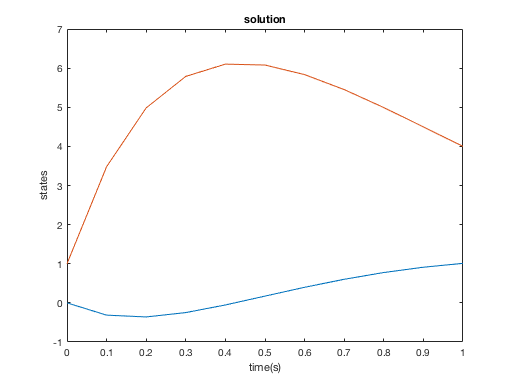
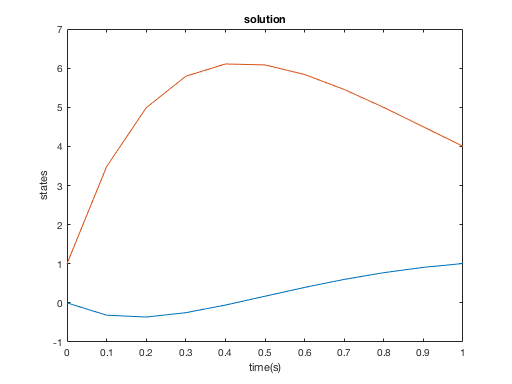
Repair dP_dt = F(T-t,P,Y(T-t),U(T-t))

diff --git a/src/MDL01_Control/classes/@LinearControl/GetAdjointProblem.m b/src/MDL01_Control/classes/@LinearControl/GetAdjointProblem.m
@@ -1,28 +1,20 @@
   function GetAdjointProblem(iControlProblem)
-% little_description: Metodo capaz de calcular el problema adjunto de la ecuacion diferencial atravez del hamiltoniano
-%                      asociado (Principi de Pontriagin). Mediante la formula $ \\frac{d\\textbf{P}}{dt} = \\vec{\\nabla}_{Y} H $
-% description: Este metodo agrega el problema adjunto al objecto ControlProblem, dado que tenemos 
+% description: This method adds the problem adjoint to the Control Problem object, since we have
 %               $$ \\dot{\\textbf{Y}} = f(\\textbf{Y},t) $$ 
-%               y el funcional 
+%               and the functional
 %               $$ J = \\Psi(\\textbf{Y}(T)) + \\int_{0}^T L(\\textbf{Y},U,t)dt $$ 
-%               podemos crear el Hamiltoniano 
+%               we can create the Hamiltonian 
 %               $$ H = L + P*F $$
-%               donde $\\textbf{P} = [p_1 p_2 p_3 ... ]^T$ . Entonces 
-%               segun el principio del maximo de pontriagin 
-%               podemos calcular el problemas adjunto mediantes las formulas 
+%               where $\\textbf{P} = [p_1 p_2 p_3 ... ]^T$ . So according to the principle of the maximum of pontriagin,
+%               we can calculate the attached problems through the formulas
 %               $$ \\frac{d\\textbf{P}}{dt} = \\vec{\\nabla}_{Y} H = 
 %               (\\frac{\\partial H}{ \\partial y_1},\\frac{\\partial H}{ \\partial y_2},...)$$
-%               con la condicion final 
+%               with the final time condition
 %               $$ \\textbf{P}(T) = 
 %               (\\frac{\\partial \\Psi}{ \\partial y_1},\\frac{\\partial \\Psi}{ \\partial y_2},...)$$
+% little_description: Method capable of obtaining the attached problem and its final condition.
 % autor: JOroya
 % MandatoryInputs:   
-%    iCP: 
-%        name: Control Problem
-%        description: Control problem object
-%        class: ControlProblem
-%        dimension: [1x1]
-% Outputs:
 %    iCP: 
 %        name: Control Problem
 %        description: Control problem object

diff --git a/tutorials/Tp04_Controlability/T0002-Numerical homogenizaton_for_wave_equation/P0002_Numerical_homogenizaton_for_wave_equation.m b/tutorials/Tp04_Controlability/T0002-Numerical homogenizaton_for_wave_equation/P0002_Numerical_homogenizaton_for_wave_equation.m
@@ -19,16 +19,16 @@
 % 	The energy of solution to \eqref{wave} $E(t)$ 
 %%
 % 	$$ \begin{equation}
-% 	E(t)=\frac{1}{2}\int_{0}^{1}| u_x(x,t) |^2+| u_t(x,t)|^2 dx,
+% 	E(t)=\frac{1}{2}\int_{0}^{1} \vert u_x(x,t) \vert^2+ \vert u_t(x,t)\vert^2 dx,
 % 	\end{equation} $$
 %%
 % 	is time conserved .
 %% 
-% With Hilbert Uniqueness Method, the exact controllability of \eqref{control} is  equal to the observability of the adjoint \eqref{wave},
+% With Hilbert Uniqueness Method, the exact controllability of \eqref{wave} is  equal to the observability of the adjoint \eqref{wave},
 % Observability of \eqref{wave} reads as: Given $T\geq 2$, there exist a positive constant $C(T)\geq 0$ such that
 %%
 % $$ \begin{equation}
-%       E(0)\leq C(T) \int_{0}^{T} |u_x(1,t)|^2 dt.
+%       E(0)\leq C(T) \int_{0}^{T} \vert u_x(1,t) \vert ^2 dt.
 % \end{equation} $$
 %%
 % holds for every solution $u(x,t)$ to adjoint system \eqref{wave}

diff --git a/src/MDL01_Control/classes/@ControlProblem/GetGradient.m b/src/MDL01_Control/classes/@ControlProblem/GetGradient.m
@@ -1,5 +1,10 @@
 function GetGradient(iControlProblem)
-% description: Metodo de Es
+% description: Creates the iCP.dH_du property that contains a numeric function that 
+%               returns the value of the gradient given the dynamics solution, 
+%               $Y$ and the associated control, $U$.
+% little_description: Creates the iCP.dH_du property that contains a numeric function that 
+%               returns the value of the gradient given the dynamics solution, 
+%               $Y$ and the associated control, $U$. 
 % autor: JOroya
 % MandatoryInputs:   
 %  iCP: 
@@ -7,13 +12,7 @@ function GetGradient(iControlProblem)
 %    description: 
 %    class: ControlProblem
 %    dimension: [1x1]
-% OptionalInputs:
-%  U0:
-%    name: Initial Control 
-%    description: matrix 
-%    class: double
-%    dimension: [length(iCP.tline)]
-%    default:   empty
+
 
     syms Hamil t u 
     %%

diff --git a/src/MDL01_Control/classes/@ControlProblem/ClassicalDescent.m b/src/MDL01_Control/classes/@ControlProblem/ClassicalDescent.m
@@ -62,8 +62,8 @@ function  [Unew ,Ynew,Jnew] = ClassicalDescent(iCP,Uold,Yold,Jold,varargin)
     addRequired(p,'Yold')
     addRequired(p,'Jold')
 
-    addOptional(p,'InitialLengthStep',10)
-    addOptional(p,'MinLengthStep',0.0001)
+    addOptional(p,'InitialLengthStep',1e-1)
+    addOptional(p,'MinLengthStep',1e-5)
     addOptional(p,'MiddleStepControl',true)
     
     parse(p,iCP,Uold,Yold,Jold,varargin{:})
@@ -141,7 +141,7 @@ function [Unew,Ynew] = ClassicalDescentUpdateControl(iCP,Uold,Yold,LengthStep)
     
     %% Resolvemos el problem dual
     % Creamos dp/dt (t,p)  a partir de la funcion dp_dt_xuDepen
-    dP_dt  = @(t,P) double(dP_dt_yuDepen(t,P,Y_fun(t),U_fun(t)))';
+    dP_dt  = @(t,P) double(dP_dt_yuDepen(T-t,P,Y_fun(T-t),U_fun(T-t)))';
     % Obtenemos la condicion final del problema adjunto
     P0 = P0_yt_Depen(T,Y_fun(T));
     % Resolvemos el problema dual, colcando un 

diff --git a/src/MDL01_Control/classes/@LinearControl/ConjugateGradientDescent.m b/src/MDL01_Control/classes/@LinearControl/ConjugateGradientDescent.m
@@ -1,7 +1,8 @@
 function  [Unew ,Ynew,Jnew] = ConjugateGradientDescent(iCP,Uold,Yold,Jold,varargin)
 %  description: This method is able to update the value of the control by decreasing 
-%               the value of the functional. By calculating the gradient, $ \\frac{dH}{du}$. Also, it is decremented 
-%               in that direction, assuring the decrease by the adaptive step size. 
+%               the value of the functional. By calculating the congugate gradient, $ \\frac{dH}{du}$.
+%  little_description: This method is able to update the value of the control by decreasing 
+%               the value of the functional.
 %  autor: UmbertoB
 %  MandatoryInputs:   
 %    iCP: 

diff --git a/tutorials/TP02_OptimalControl/T0005_VirusInfectionControlProblem/T0005_VirusInfectionControlProblem.m b/tutorials/TP02_OptimalControl/T0005_VirusInfectionControlProblem/T0005_VirusInfectionControlProblem.m
@@ -9,7 +9,7 @@ symY = SymsVector('y',2);
 symU = SymsVector('u',1);
 %% Creamos Funcional
 
-A = 10;
+A = 1;
 symPsi  = 0;
 symL    = A*(symU.'*symU) + symY(2);
 
@@ -53,7 +53,7 @@ solve(odeEqn)
 iCP1 = ControlProblem(odeEqn,Jfun);
 
 %% Solve Gradient
-DescentParameters = {'MiddleStepControl',true,'InitialLengthStep',1e-5,'MinLengthStep',1e-10};
+DescentParameters = {'MiddleStepControl',true,'InitialLengthStep',1e-13,'MinLengthStep',1e-10};
 Gradient_Parameters = {'maxiter',50,'DescentParameters',DescentParameters,'Graphs',true,'TypeGraphs','ODE'};
 %
 GradientMethod(iCP1,Gradient_Parameters{:})

diff --git a/src/MDL01_Control/classes/@ControlProblem/resume.m b/src/MDL01_Control/classes/@ControlProblem/resume.m
@@ -1,7 +1,8 @@
 function resume(iCP)
-%  description: show the most importants parameters of the control problem
-%  autor: JOroya
-%  MandatoryInputs:   
+% description: show the most importants parameters of the control problem
+% little_description: show the most importants parameters of the control problem
+% autor: JOroya
+% MandatoryInputs:   
 %    iCP: 
 %        description: Control Problem Object
 %        type: ControlProblem

diff --git a/src/MDL01_Control/classes/@ControlProblem/GradientMethod.m b/src/MDL01_Control/classes/@ControlProblem/GradientMethod.m
@@ -137,7 +137,7 @@ function GradientMethod(iCP,varargin)
         bucle_graphs(axY,axU,axJ,Yold,Uold,Jhistory,iCP.ode.tline,1,TypeGraphs,SaveGif)
     end
         
-    % clean the peersisten variable LengthStepMemory
+    % clean the persiten variable LengthStepMemory
     clear ClassicalDescent
     
     for iter = 1:MaxIter
